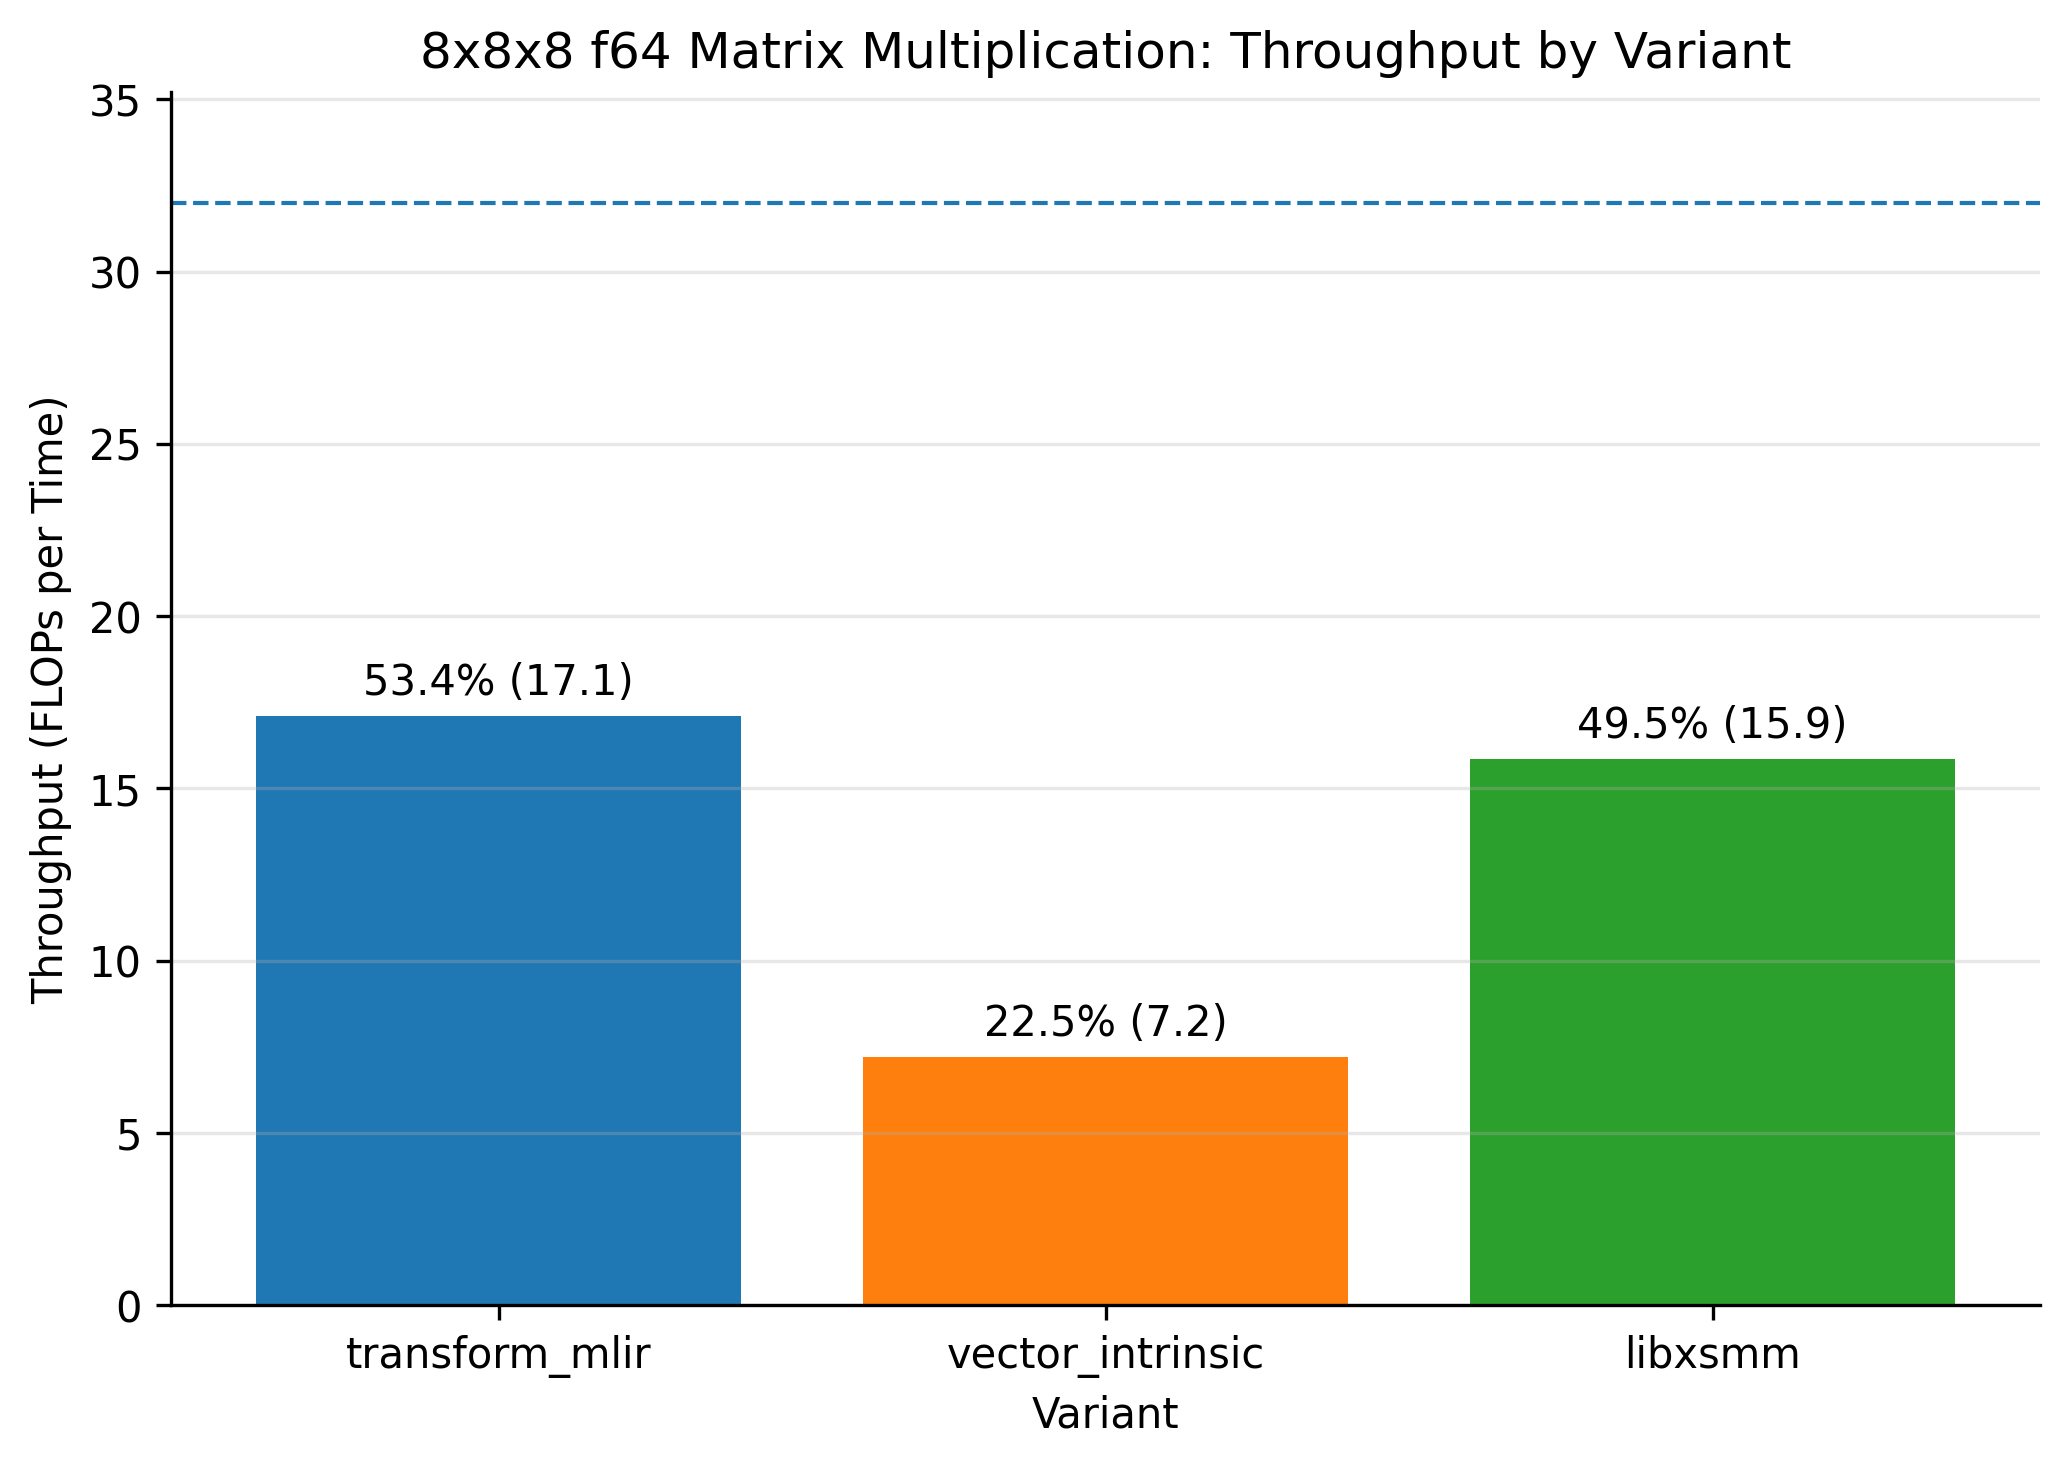
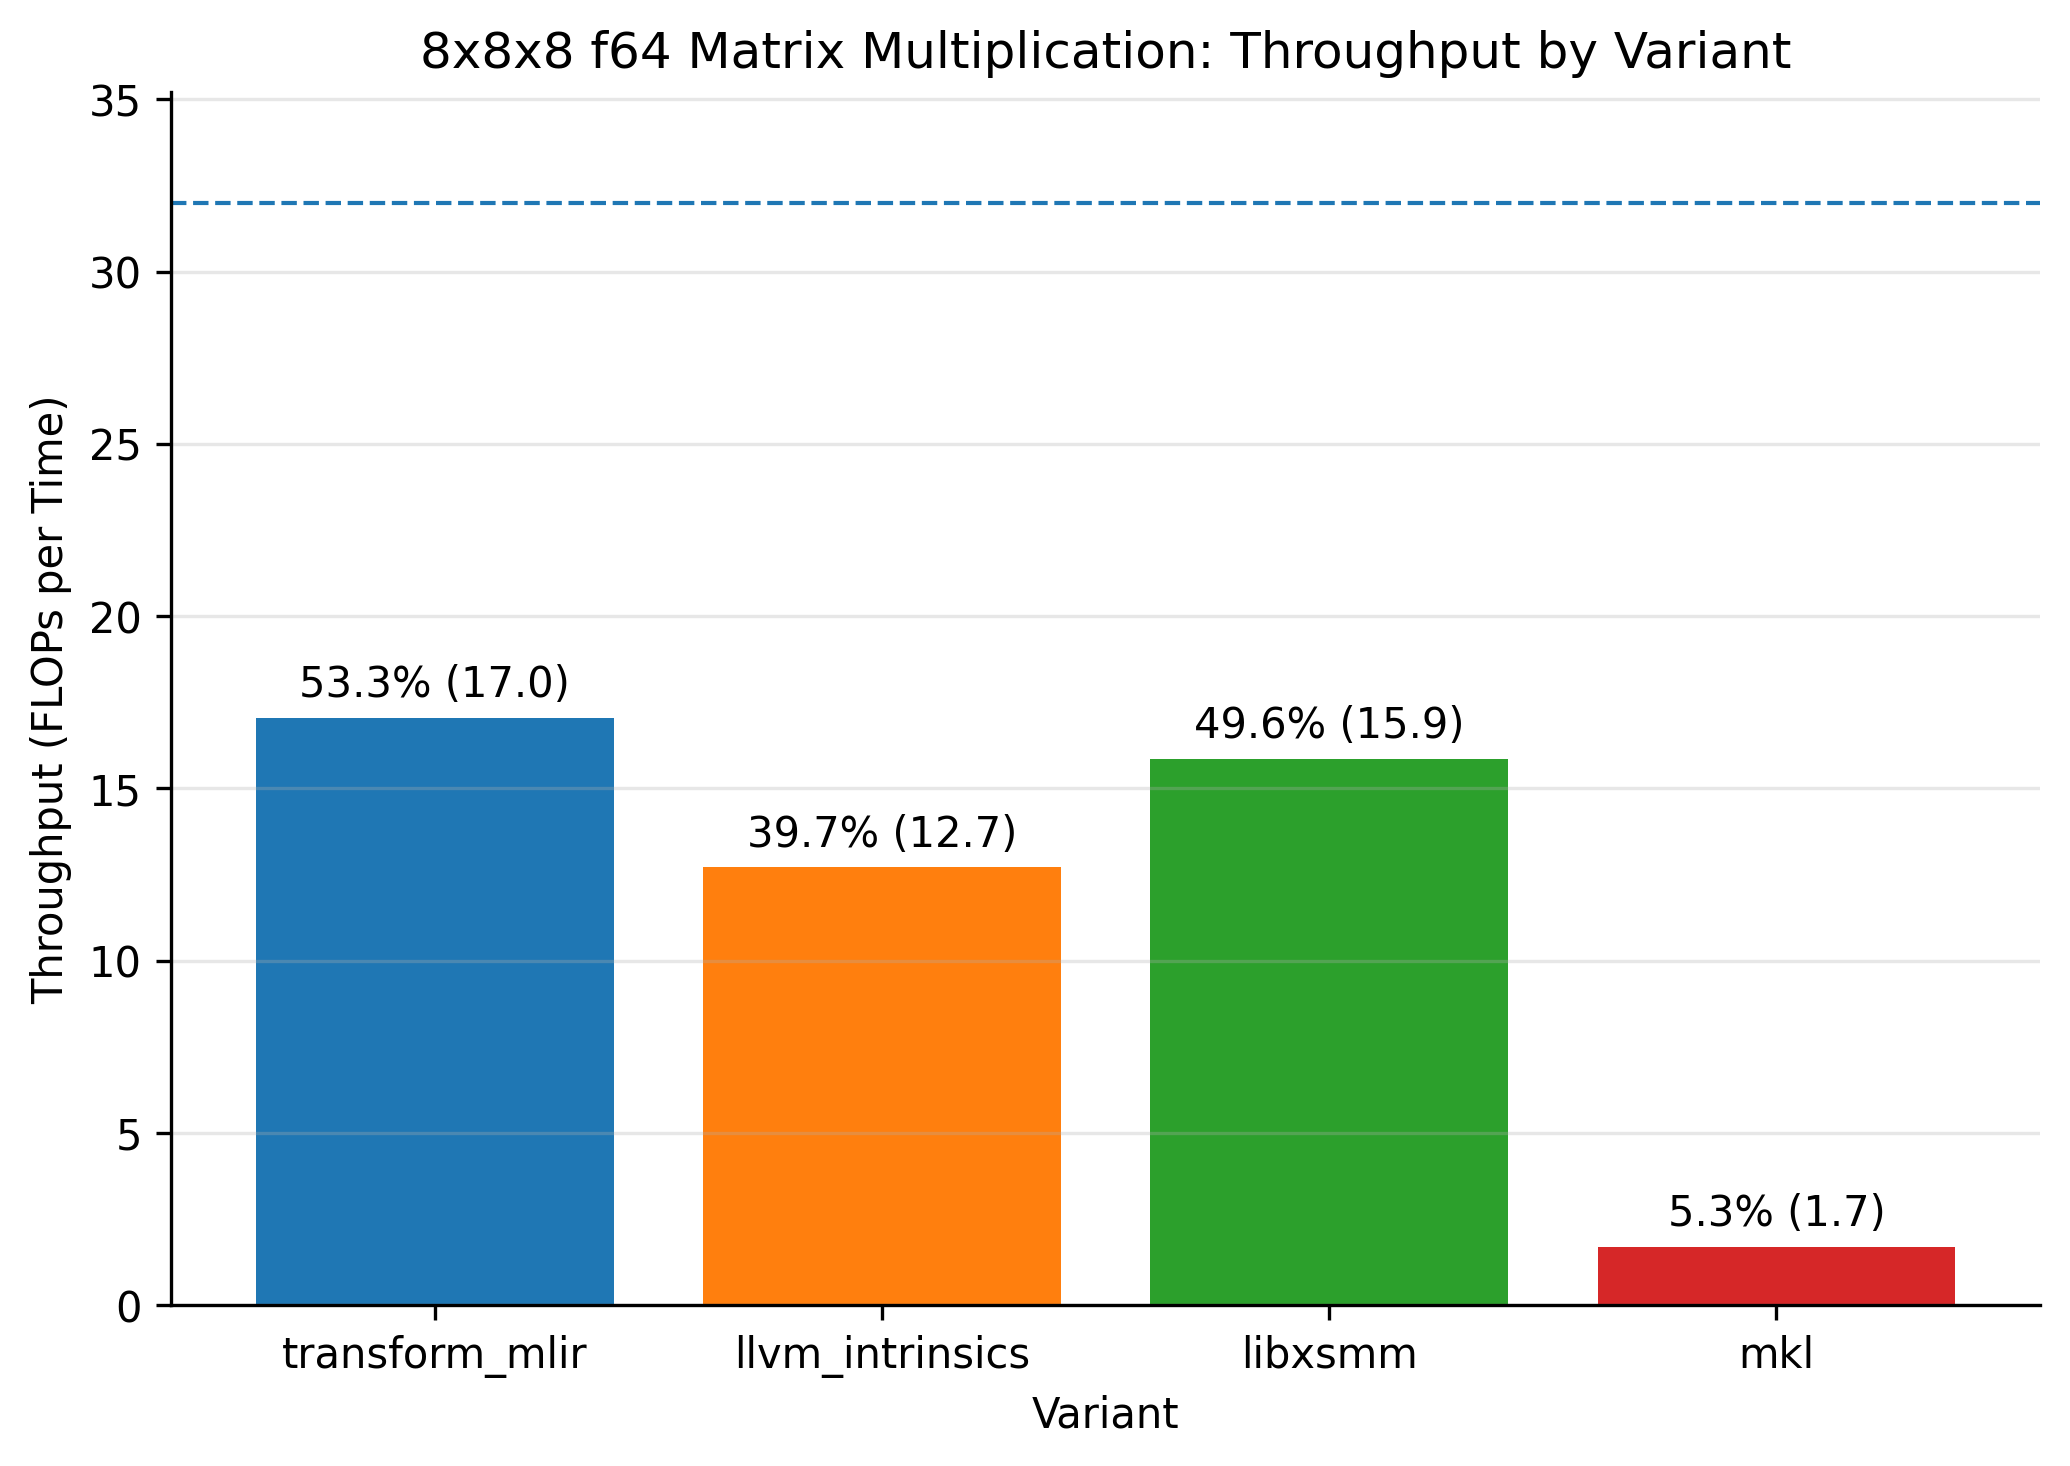
llvm matmul intrinsic: integration (#164)

Changed region(s): [[0.1237, 0.4297, 0.9585, 0.9516], [0.1546, 0.8902, 0.3092, 0.9516]]

diff --git a/kernels/matmul_rowmaj/llvm_intrinsics.c b/kernels/matmul_rowmaj/llvm_intrinsics.c
@@ -1,0 +1,16 @@
+typedef DTYPE mKxM __attribute__((matrix_type(K,M)));
+typedef DTYPE mNxK __attribute__((matrix_type(N,K)));
+typedef DTYPE mNxM __attribute__((matrix_type(N,M)));
+
+void matmul(DTYPE* restrict A, DTYPE* restrict B, DTYPE* restrict C) {
+  
+  mKxM a = __builtin_matrix_column_major_load(A, K, M, K);
+  
+  mNxK b = __builtin_matrix_column_major_load(B, N, K, N);
+  
+  mNxM c = __builtin_matrix_column_major_load(C, N, M, N);
+
+  mNxM r = b * a + c;
+
+  __builtin_matrix_column_major_store(r, C, N);
+}
